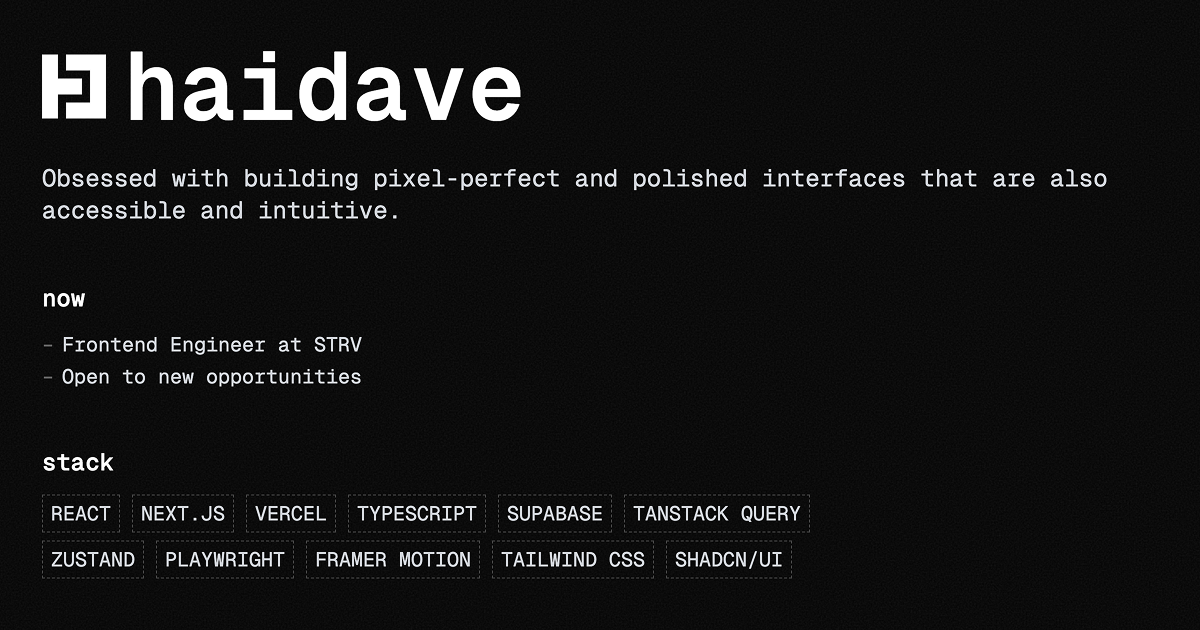
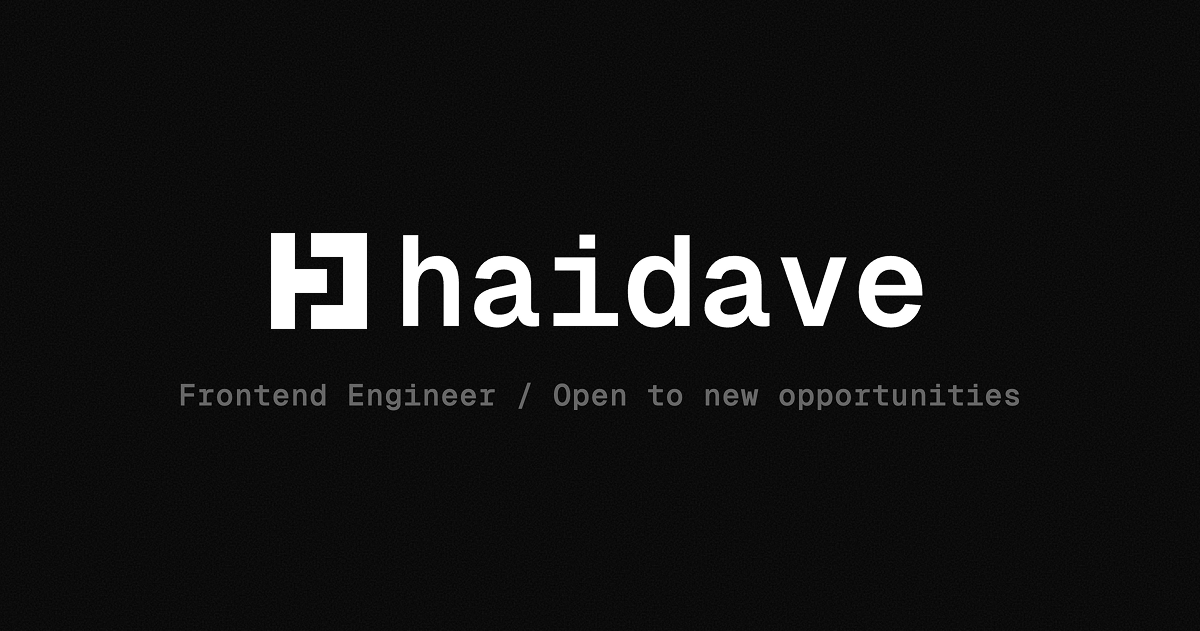
feat: update og-image and meta description

diff --git a/src/modules/design-system/components/og-image.tsx b/src/modules/design-system/components/og-image.tsx
@@ -1,47 +1,19 @@
-import { STACK } from '@/modules/home/pages/home'
-
 // Just a helper component to generate the OG image instead of Figma
 const OGImage = () => {
   return (
-    <section className="h-[630px] w-[1200px] p-10">
-      <div>
-        <div className="flex items-center gap-x-4 text-8xl font-bold text-primary">
-          <div className="relative size-16">
-            <div className="absolute left-0 h-full w-4 bg-primary-reverse" />
-            <div className="absolute top-1/2 h-4 w-10 -translate-y-1/2 bg-primary-reverse" />
-            <div className="absolute right-0 h-16 w-10 border-[16px] border-l-0 border-black dark:border-white" />
+    <section className="grid h-[630px] w-[1200px] place-items-center p-10">
+      <div className="grid place-items-center gap-y-8">
+        <div className="flex items-center gap-x-6 text-9xl font-bold text-primary">
+          <div className="relative size-24">
+            <div className="absolute left-0 h-full w-6 bg-primary-reverse" />
+            <div className="absolute top-1/2 h-6 w-14 -translate-y-1/2 bg-primary-reverse" />
+            <div className="absolute right-0 h-24 w-14 border-[24px] border-l-0 border-black dark:border-white" />
           </div>
           haidave
         </div>
-      </div>
-
-      <p className="mt-7 text-2xl text-secondary">
-        Obsessed with building pixel-perfect and polished interfaces that are also accessible and intuitive.
-      </p>
-
-      <div className="mt-14 space-y-4">
-        <h2 className="text-2xl font-semibold text-primary">now</h2>
-        <ul className="space-y-1 text-xl text-secondary">
-          <li className="flex gap-2">
-            <span className="text-tertiary">&ndash;</span>
-            <p>Frontend Engineer at STRV</p>
-          </li>
-          <li className="flex gap-2">
-            <span className="text-tertiary">&ndash;</span>
-            <p>Open to new opportunities</p>
-          </li>
-        </ul>
-      </div>
-
-      <div className="mt-14 space-y-4">
-        <h2 className="text-2xl font-semibold text-primary">stack</h2>
-        <ul className="flex max-w-[800px] flex-wrap gap-x-3 gap-y-2 text-xl text-secondary">
-          {STACK.map((item) => (
-            <li key={item} className="border border-dashed px-2 py-1 uppercase">
-              {item}
-            </li>
-          ))}
-        </ul>
+        <p className="text-3xl font-semibold tracking-wide text-tertiary">
+          Frontend Engineer / Open to new opportunities
+        </p>
       </div>
     </section>
   )

diff --git a/src/app/layout.tsx b/src/app/layout.tsx
@@ -5,7 +5,7 @@ export const metadata: Metadata = {
     default: 'haidave',
     template: '%s | haidave',
   },
-  description: 'my personal space representing both me and my work.',
+  description: 'Frontend Engineer / Open to new opportunities',
   icons: {
     icon: '/images/icon.png',
     shortcut: '/images/icon.png',

diff --git a/src/modules/home/pages/home.tsx b/src/modules/home/pages/home.tsx
@@ -3,7 +3,7 @@ import { Link } from '@/modules/design-system/components/link'
 
 const INTERESTS = ['Street Photography', 'Technology', 'Self-Development', 'Minimalism', 'UI/UX', 'Bouldering']
 
-export const STACK = [
+const STACK = [
   'React',
   'Next.js',
   'Vercel',
